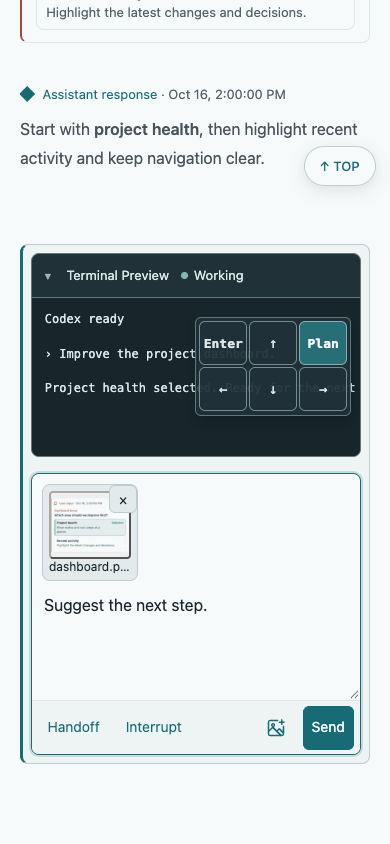
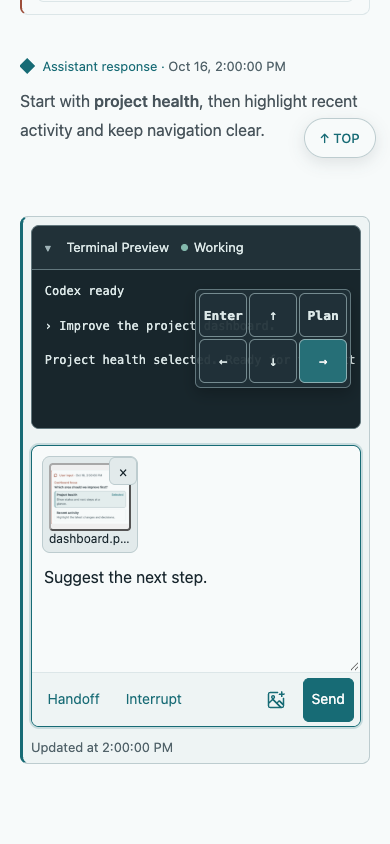
Improve message feedback and restore the update timestamp (#145)

diff --git a/tests/client/message-preview.test.tsx b/tests/client/message-preview.test.tsx
@@ -1,0 +1,126 @@
+// @vitest-environment jsdom
+import { act, render, screen } from "@testing-library/react";
+import userEvent from "@testing-library/user-event";
+import { beforeEach, describe, expect, it, vi } from "vitest";
+
+import type { SessionMessagesResponse } from "../../src/shared/api-contract";
+
+import { api } from "../../src/client/api/client";
+import { SessionReader } from "../../src/client/components/SessionReader";
+import { firstPage } from "./session.fixtures";
+
+vi.mock("../../src/client/api/terminal-preview", () => ({
+  connectTerminalPreview: () => vi.fn(),
+}));
+
+const page: SessionMessagesResponse = {
+  ...firstPage,
+  hasMore: false,
+  interaction: {
+    supported: true,
+    activity: null,
+    state: "connected",
+    supersededBySessionId: null,
+    attachCommand: null,
+  },
+};
+const reader = (context = page) => (
+  <SessionReader context={context} readerLoading={false} readerBusy={false} onLoadMore={vi.fn()} />
+);
+const preview = () => screen.queryByRole("list", { name: "Pending" });
+async function send(message = "Show this immediately") {
+  const user = userEvent.setup();
+  await user.type(screen.getByRole("textbox", { name: "Message to agent" }), message);
+  await user.click(screen.getByRole("button", { name: "Send" }));
+}
+
+beforeEach(() => {
+  vi.spyOn(api, "sendMessage").mockResolvedValue(undefined);
+});
+
+describe("temporary message preview", () => {
+  it("appears before the send completes, survives metadata updates, and yields to any actual message", async () => {
+    let complete!: () => void;
+    vi.mocked(api.sendMessage).mockReturnValue(
+      new Promise<void>((resolve) => {
+        complete = resolve;
+      }),
+    );
+    const view = render(reader());
+    await send();
+    expect(preview()).toHaveTextContent("Show this immediately");
+    expect(preview()?.querySelector("time")).toBeNull();
+    await act(async () => complete());
+    expect(screen.getByRole("textbox")).toHaveValue("");
+    expect(preview()).toBeInTheDocument();
+    view.rerender(
+      reader({ ...page, session: { ...page.session, updatedAt: "2026-11-05T12:00:00Z" } }),
+    );
+    expect(preview()).toBeInTheDocument();
+    view.rerender(
+      reader({
+        ...page,
+        items: [
+          ...page.items,
+          {
+            kind: "message",
+            id: "actual",
+            ordinal: 2,
+            timestamp: null,
+            role: "assistant",
+            phase: "update",
+            itemType: null,
+            markdown: "Actual content wins",
+          },
+        ],
+      }),
+    );
+    expect(preview()).not.toBeInTheDocument();
+    expect(screen.getByText("Actual content wins")).toBeInTheDocument();
+  });
+
+  it("does not restore a preview if actual messages arrive before the send completes", async () => {
+    let complete!: () => void;
+    vi.mocked(api.sendMessage).mockReturnValue(
+      new Promise<void>((resolve) => {
+        complete = resolve;
+      }),
+    );
+    const view = render(reader());
+    await send();
+    view.rerender(
+      reader({ ...page, items: [...page.items, { ...page.items[0]!, id: "actual", ordinal: 2 }] }),
+    );
+    expect(preview()).not.toBeInTheDocument();
+    await act(async () => complete());
+    expect(preview()).not.toBeInTheDocument();
+  });
+
+  it("withdraws a failed send and retains its draft", async () => {
+    vi.mocked(api.sendMessage).mockRejectedValue(new Error("Send failed"));
+    render(reader());
+    await send();
+    expect(preview()).not.toBeInTheDocument();
+    expect(screen.getByRole("textbox")).toHaveValue("Show this immediately");
+    expect(screen.getByRole("alert")).toHaveTextContent("Send failed");
+  });
+
+  it.each(["/help", "/plan", "/exit", "/quit"])("excludes pure command %s", async (command) => {
+    render(reader());
+    await send(command);
+    expect(preview()).not.toBeInTheDocument();
+    expect(api.sendMessage).toHaveBeenCalledWith(page.session.id, command);
+  });
+
+  it("uses one temporary slot and clears it on session changes", async () => {
+    const view = render(reader());
+    await send("First temporary message");
+    await send("Latest temporary message");
+    expect(preview()).not.toHaveTextContent("First temporary message");
+    expect(preview()).toHaveTextContent("Latest temporary message");
+    view.rerender(reader({ ...page, session: { ...page.session, id: "another" } }));
+    expect(preview()).not.toBeInTheDocument();
+    view.rerender(reader());
+    expect(preview()).not.toBeInTheDocument();
+  });
+});

diff --git a/src/client/components/SessionReader.tsx b/src/client/components/SessionReader.tsx
@@ -6,6 +6,8 @@ import type { SessionMessagesResponse } from "../../shared/api-contract";
 import { t } from "../i18n";
 import { EmptyState } from "./EmptyState";
 import { ErrorState } from "./ErrorState";
+import { EventMark } from "./EventMark";
+import { MessageItem } from "./MessageItem";
 import { PageJumpControls } from "./PageJumpControls";
 import { SessionHeader } from "./SessionHeader";
 import { SessionInteraction } from "./SessionInteraction";
@@ -45,6 +47,20 @@ export function SessionReader({
   useTranslation();
   const [interactionPanel, setInteractionPanel] = useState<HTMLElement | null>(null);
   const { hasMore, items, interaction } = context;
+  const [preview, setPreview] = useState<{
+    sessionId: string;
+    items: typeof items;
+    message: string;
+  } | null>(null);
+  // The reader preserves the items array when a poll contains no displayable messages.
+  const messagePreview =
+    preview?.sessionId === context.session.id && preview.items === items ? preview : null;
+  if (preview && !messagePreview) setPreview(null);
+  const showMessagePreview = (message: string) => {
+    const next = { sessionId: context.session.id, items, message };
+    setPreview(next);
+    return () => setPreview((current) => (current === next ? null : current));
+  };
   const latestMessage = items.at(-1) ?? null;
   const previewAutoExpandKey =
     !hasMore &&
@@ -64,7 +80,7 @@ export function SessionReader({
         session={context.session}
       />
       {related}
-      {items.length === 0 && !readerLoading ? (
+      {items.length === 0 && !readerLoading && !messagePreview ? (
         <EmptyState title={t("thisSessionHasNoMessages")}>
           {t("waitForTheSessionToUpdate")}
         </EmptyState>
@@ -79,6 +95,30 @@ export function SessionReader({
           onLoadMore={onLoadMore}
         />
       ) : null}
+      {messagePreview ? (
+        <ol
+          className="timeline message-preview"
+          aria-label={t("messagePreview")}
+          aria-live="polite"
+        >
+          <li className="trace-event human">
+            <EventMark item={{ kind: "message" }} />
+            <MessageItem
+              preview
+              item={{
+                kind: "message",
+                id: "preview",
+                ordinal: 0,
+                timestamp: null,
+                role: "user",
+                phase: null,
+                itemType: null,
+                markdown: messagePreview.message,
+              }}
+            />
+          </li>
+        </ol>
+      ) : null}
       {context.session.status !== "archived" ? (
         <SessionInteraction
           key={context.session.id}
@@ -89,6 +129,8 @@ export function SessionReader({
           interaction={interaction}
           onNavigate={onNavigate}
           sessionId={context.session.id}
+          updatedAt={context.session.updatedAt}
+          onMessagePreview={showMessagePreview}
           previewAutoExpandKey={previewAutoExpandKey}
         />
       ) : null}

diff --git a/src/client/components/SessionInteraction.tsx b/src/client/components/SessionInteraction.tsx
@@ -14,6 +14,8 @@ interface SessionInteractionProps {
   interaction: InteractionResponse | null;
   onNavigate?: (sessionId: string) => void;
   sessionId: string;
+  updatedAt: string | null;
+  onMessagePreview?: (message: string) => () => void;
   previewAutoExpandKey?: string | null;
 }
 
@@ -25,6 +27,8 @@ export function SessionInteraction({
   interaction,
   onNavigate,
   sessionId,
+  updatedAt,
+  onMessagePreview,
   previewAutoExpandKey = null,
 }: SessionInteractionProps) {
   const previewAvailable = interaction?.supported === true && interaction.state === "connected";
@@ -32,10 +36,23 @@ export function SessionInteraction({
 
   const preview = useTerminalPreview(sessionId, previewAvailable, previewAutoExpandKey);
 
+  const sendMessage = async (message: string) => {
+    const dismissPreview = /^\/[A-Za-z]+$/.test(message.trimEnd())
+      ? undefined
+      : onMessagePreview?.(message);
+    try {
+      await controller.sendMessage(message);
+    } catch (reason) {
+      dismissPreview?.();
+      throw reason;
+    }
+  };
+
   return (
     <InteractionPanel
       key={sessionId}
       sessionId={sessionId}
+      updatedAt={updatedAt}
       onPanelElement={onPanelElement}
       recoveryActions={recoveryActions}
       operationStatus={operationStatus}
@@ -45,7 +62,7 @@ export function SessionInteraction({
       error={controller.error}
       errorDetail={controller.errorDetail}
       onDismissError={controller.clearError}
-      onSendMessage={controller.sendMessage}
+      onSendMessage={sendMessage}
       onSendKeys={controller.sendKeys}
       onHandoffPaneBinding={controller.handoffPaneBinding}
       {...preview}

diff --git a/src/client/components/InteractionPanel.tsx b/src/client/components/InteractionPanel.tsx
@@ -18,7 +18,7 @@ import type {
 import { MAX_INTERACTION_MESSAGE_BYTES } from "../../shared/api-contract";
 
 import type { PlainMessageKey } from "../i18n";
-import { formatNumber, t } from "../i18n";
+import { formatDate, formatNumber, t } from "../i18n";
 import { LocalizedError } from "../i18n/localized-error";
 import { usePreferences } from "../state/preferences";
 import { useSessionDraft } from "../state/session-drafts";
@@ -30,6 +30,7 @@ import { RequestError } from "./RequestError";
 
 interface InteractionPanelProps {
   sessionId: string;
+  updatedAt: string | null;
   onPanelElement?: (element: HTMLElement | null) => void;
   recoveryActions?: ReactNode;
   operationStatus?: ReactNode;
@@ -57,6 +58,7 @@ interface InteractionPanelProps {
 
 export function InteractionPanel({
   sessionId,
+  updatedAt,
   onPanelElement,
   recoveryActions,
   operationStatus,
@@ -328,6 +330,14 @@ export function InteractionPanel({
             ) : null}
             {operationStatus}
             {previewConnected ? renderConnectedInteraction(attachmentMenu) : null}
+            <p className="interaction-summary">
+              {t("lastUpdatedTime", {
+                time:
+                  updatedAt && Number.isFinite(Date.parse(updatedAt))
+                    ? formatDate(new Date(updatedAt), { timeStyle: "medium" })
+                    : t("timeUnavailable"),
+              })}
+            </p>
           </div>
         </section>
       )}

diff --git a/src/client/components/MessageItem.tsx b/src/client/components/MessageItem.tsx
@@ -97,12 +97,14 @@ export function safeUrlTransform(url: string): string {
 
 interface MessageItemProps {
   item: Message;
+  preview?: boolean;
   planOpen?: boolean;
   onTogglePlan?: (id: string) => void;
 }
 
 export const MessageItem = memo(function MessageItem({
   item,
+  preview = false,
   planOpen,
   onTogglePlan,
 }: MessageItemProps) {
@@ -116,6 +118,7 @@ export const MessageItem = memo(function MessageItem({
     >
       <p className="event-label">
         {messageLabel(item)}
+        {preview ? ` · ${t("messagePreview")}` : null}
         {itemType}
         <EventTime timestamp={item.timestamp} />
       </p>

diff --git a/tests/client/use-terminal-preview.test.tsx b/tests/client/use-terminal-preview.test.tsx
@@ -178,6 +178,7 @@ it("connects the panel toggle to the socket lifecycle", () => {
   const { unmount } = render(
     <SessionInteraction
       sessionId="a"
+      updatedAt={null}
       interaction={{
         supported: true,
         activity: "unknown",
@@ -222,6 +223,7 @@ it.each([false, true])(
     const { unmount } = render(
       <SessionInteraction
         sessionId="a"
+        updatedAt={null}
         interaction={{
           supported: true,
           activity: null,

diff --git a/src/client/i18n/locales/zh-TW.ts b/src/client/i18n/locales/zh-TW.ts
@@ -204,6 +204,8 @@ export const messages: Record<keyof typeof english, string> = {
 
   theTerminalPaneIsEmpty: "終端窗格是空的。",
   thisSessionHasNoMessages: "此工作階段尚無訊息",
+  messagePreview: "待確認",
+  lastUpdatedTime: "更新於 {{time}}",
   timeUnavailable: "時間不可用",
 
   tmuxAccess: "連線 tmux",

diff --git a/src/client/i18n/locales/zh-CN.ts b/src/client/i18n/locales/zh-CN.ts
@@ -204,6 +204,8 @@ export const messages: Record<keyof typeof english, string> = {
 
   theTerminalPaneIsEmpty: "终端窗格为空。",
   thisSessionHasNoMessages: "此会话暂无消息",
+  messagePreview: "待确认",
+  lastUpdatedTime: "更新于 {{time}}",
   timeUnavailable: "时间不可用",
 
   tmuxAccess: "连接 tmux",

diff --git a/src/client/i18n/locales/en.ts b/src/client/i18n/locales/en.ts
@@ -206,6 +206,8 @@ export const messages = {
 
   theTerminalPaneIsEmpty: "The terminal pane is empty.",
   thisSessionHasNoMessages: "This session has no messages",
+  messagePreview: "Pending",
+  lastUpdatedTime: "Updated at {{time}}",
   timeUnavailable: "Time unavailable",
 
   tmuxAccess: "Tmux access",

diff --git a/src/client/i18n/namespaces.ts b/src/client/i18n/namespaces.ts
@@ -97,6 +97,8 @@ export const namespaceKeys = {
     "sessionTimeline",
     "show",
     "thisSessionHasNoMessages",
+    "messagePreview",
+    "lastUpdatedTime",
     "timeUnavailable",
     "unavailable",
     "user",

diff --git a/src/client/styles/interaction.css b/src/client/styles/interaction.css
@@ -550,3 +550,9 @@
   color: var(--ink-soft);
   text-underline-offset: 3px;
 }
+
+.interaction-summary {
+  margin: 12px 0 0;
+  color: var(--ink-soft);
+  font-size: var(--text-small);
+}

diff --git a/docs/usage.md b/docs/usage.md
@@ -47,6 +47,10 @@ message input and expand **Terminal Preview** to inspect the CLI. Use
 collapse the preview. **Working** and **Idle** reflect terminal output, not whether
 a task is complete.
 
+Ordinary prompts appear immediately with a **Pending** label until conversation
+messages update. Pure slash commands skip this preview. If sending fails, the
+preview disappears and your draft remains.
+
 If Codex switches sessions in the same terminal after `/clear`, `/resume`, or
 running a plan, click **Handoff** on the previous session's connected page.
 When it shows **Superseded**, follow **Go to bound session**. Your unsent draft
